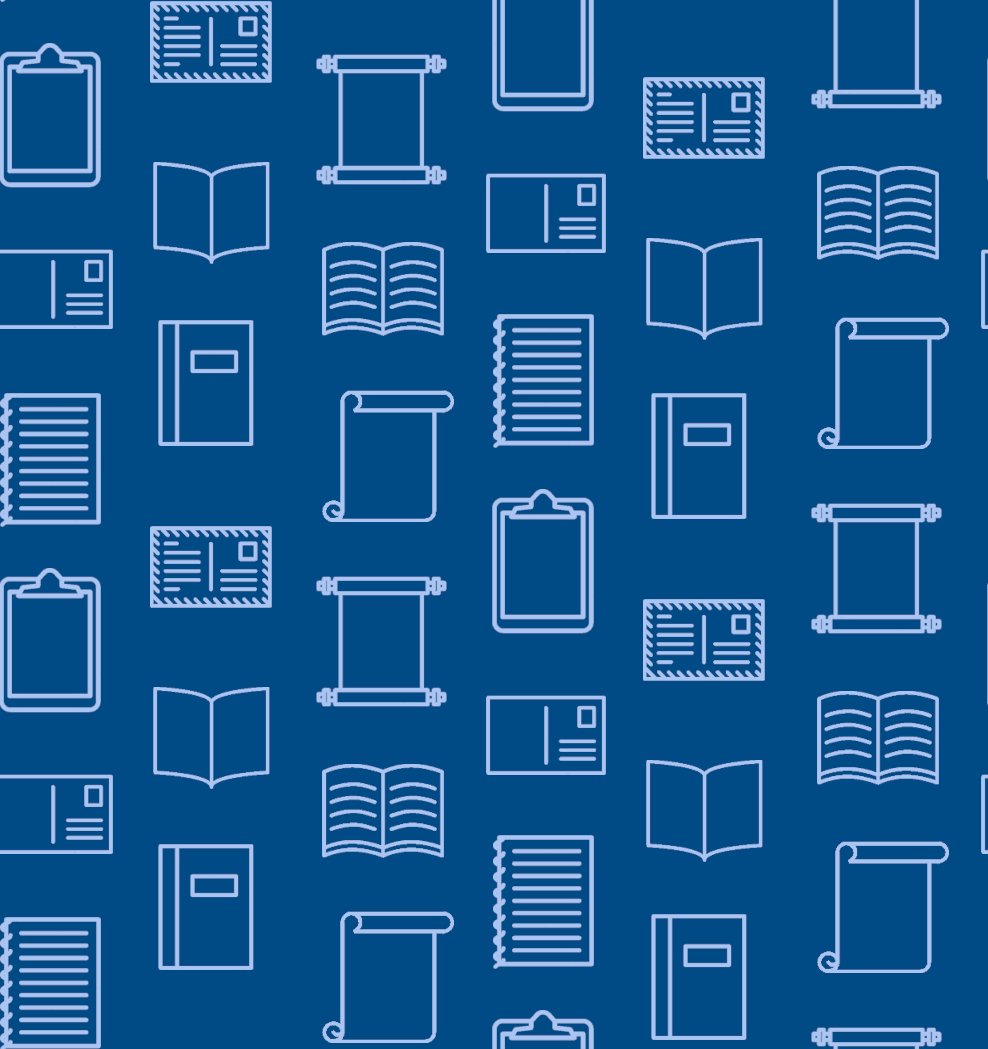
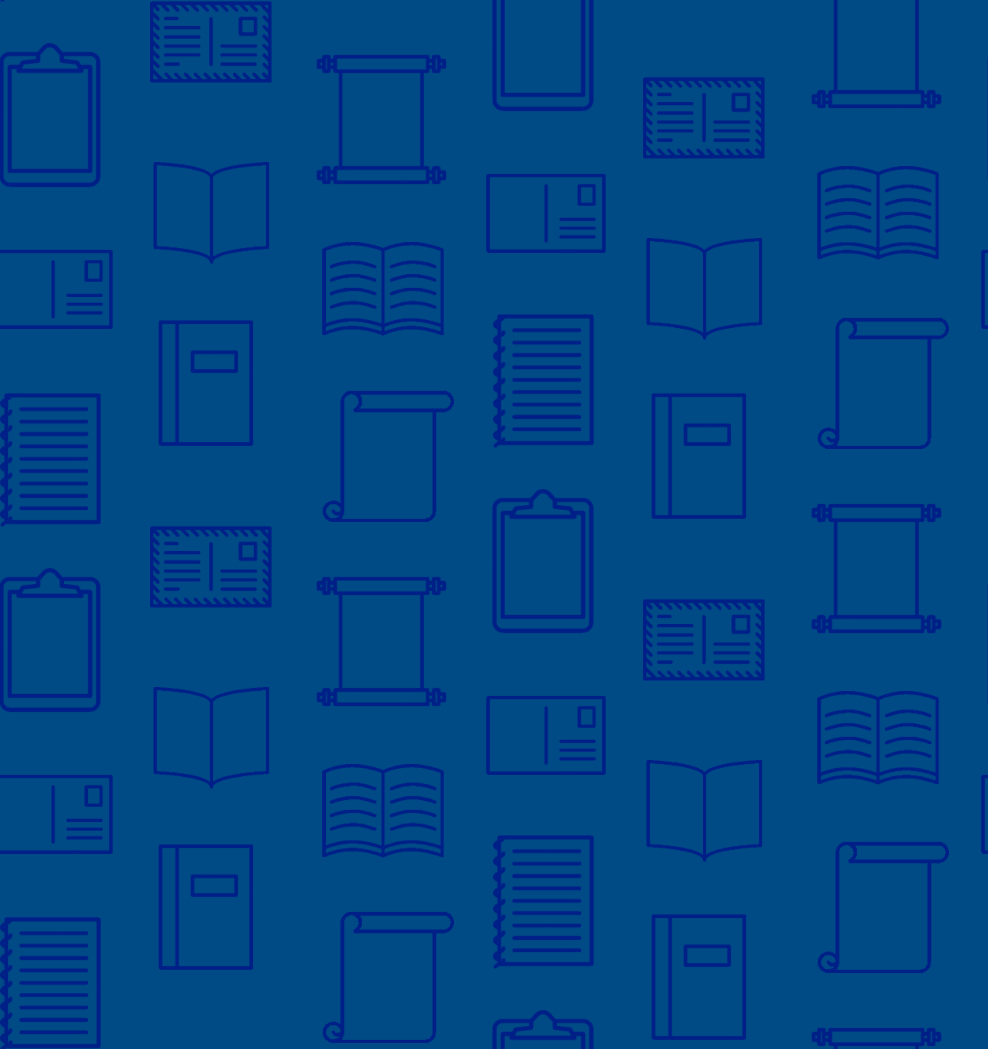
updated the background

diff --git a/public/index.css b/public/index.css
@@ -3,9 +3,9 @@
 }
 
 body {
-    /* background-image: url(Story-board.jpg);
-    background-repeat: no-repeat;
-    background-size: 1650px 850px; */
+    background-image: url(in-game-tile.png);
+    background-repeat: repeat;
+    background-size: 300px 300px;
     background-color: rgb(31, 83, 151);
     margin: 0%;
     display: flex;
@@ -26,7 +26,7 @@ body {
     color: whitesmoke;
    
 }
-body .leaderboard {
+.leaderboard {
     background-color: rgba(16, 67, 161,0.5);
     box-shadow: 0px 5px 15px;
     border-radius: 10px;
@@ -123,9 +123,9 @@ body .box-container {
 
 .popup-container {
     position: fixed;
-    /* background-image: url(finalSB.jpg);
-    background-repeat: no-repeat;
-    background-size: 1540px 780px; */
+    background-image: url(user-name-tile.png);
+    background-repeat: repeat;
+    background-size: 300px 300px;
     background-color:rgb(13, 53, 139);
     height: 100%;
     width: 100%;
